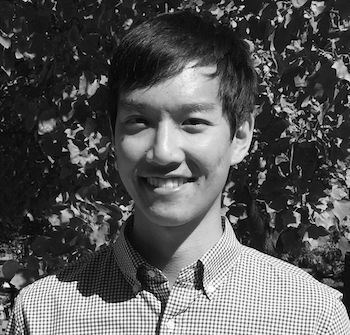
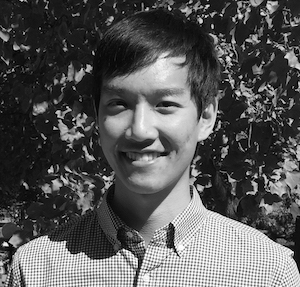
Made image smaller and added links

diff --git a/_pages/about.md b/_pages/about.md
@@ -1,7 +1,6 @@
 ---
 layout: article
 title: About
-share: false
 permalink: /about/
 ---
 
@@ -22,9 +21,6 @@ permalink: /about/
    subsurface properties. Such an approach provides a low-cost and effective 
    solution to problems in fields ranging from earthquake engineering to
    astrophysics.
-   <br />
-   <br />
-   I am also an avid sports fan, with a particular interest in sports analytics.
    </p>
   </body>
 <!--  <body>
